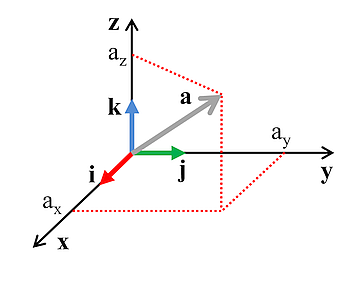
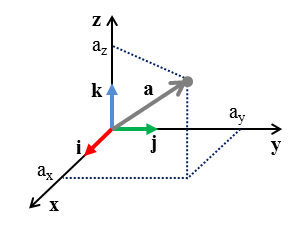
u

Changed region(s): [[0.0882, 0.0596, 0.9706, 0.8936], [0.2353, 0.6851, 0.2647, 0.7149]]

diff --git a/functions/CCS.py b/functions/CCS.py
@@ -17,7 +17,7 @@ class CCS():
                  Oxyz=[0,0,0], xyz='auto', xyz_label=True, point=[],
                  proj_lines=True, vector=True, *args, **kwargs):
         if not ax:
-            fig = plt.figure(figsize=(5, 4))
+            fig = plt.figure(figsize=(5, 5))
             ax = fig.add_axes([0, 0, 1, 1], projection='3d')            
         ax.axis("off")
         i0, j0, k0 = Oijk
@@ -101,7 +101,7 @@ class CCS():
                                 lw=3, arrowstyle="-|>", color="c", alpha=.8)
                     ax.add_artist(v)
                     
-        ax.view_init(elev=20, azim=60)
+        ax.view_init(elev=20, azim=60)       
         plt.show()
 
 

diff --git a/README.md b/README.md
@@ -45,7 +45,6 @@ Mechanics
 ---------
 - **Kinematics**
  + [Frame of reference](http://nbviewer.ipython.org/github/demotu/BMC/blob/master/notebooks/ReferenceFrame.ipynb)
-    - [Determination of a coordinate system](http://nbviewer.ipython.org/github/demotu/BMC/blob/master/notebooks/CoordinateSystem.ipynb)
  + [Kinematics of a particle](http://nbviewer.ipython.org/github/demotu/BMC/blob/master/notebooks/Kinematics%20of%20a%20Particle.ipynb)   
     - [Projectile motion](http://nbviewer.ipython.org/github/demotu/BMC/blob/master/notebooks/ProjectileMotion.ipynb) 
     - [Spatial and temporal characteristics](http://nbviewer.ipython.org/github/demotu/BMC/blob/master/notebooks/SpatialTemporalCharacteristcs.ipynb)  
